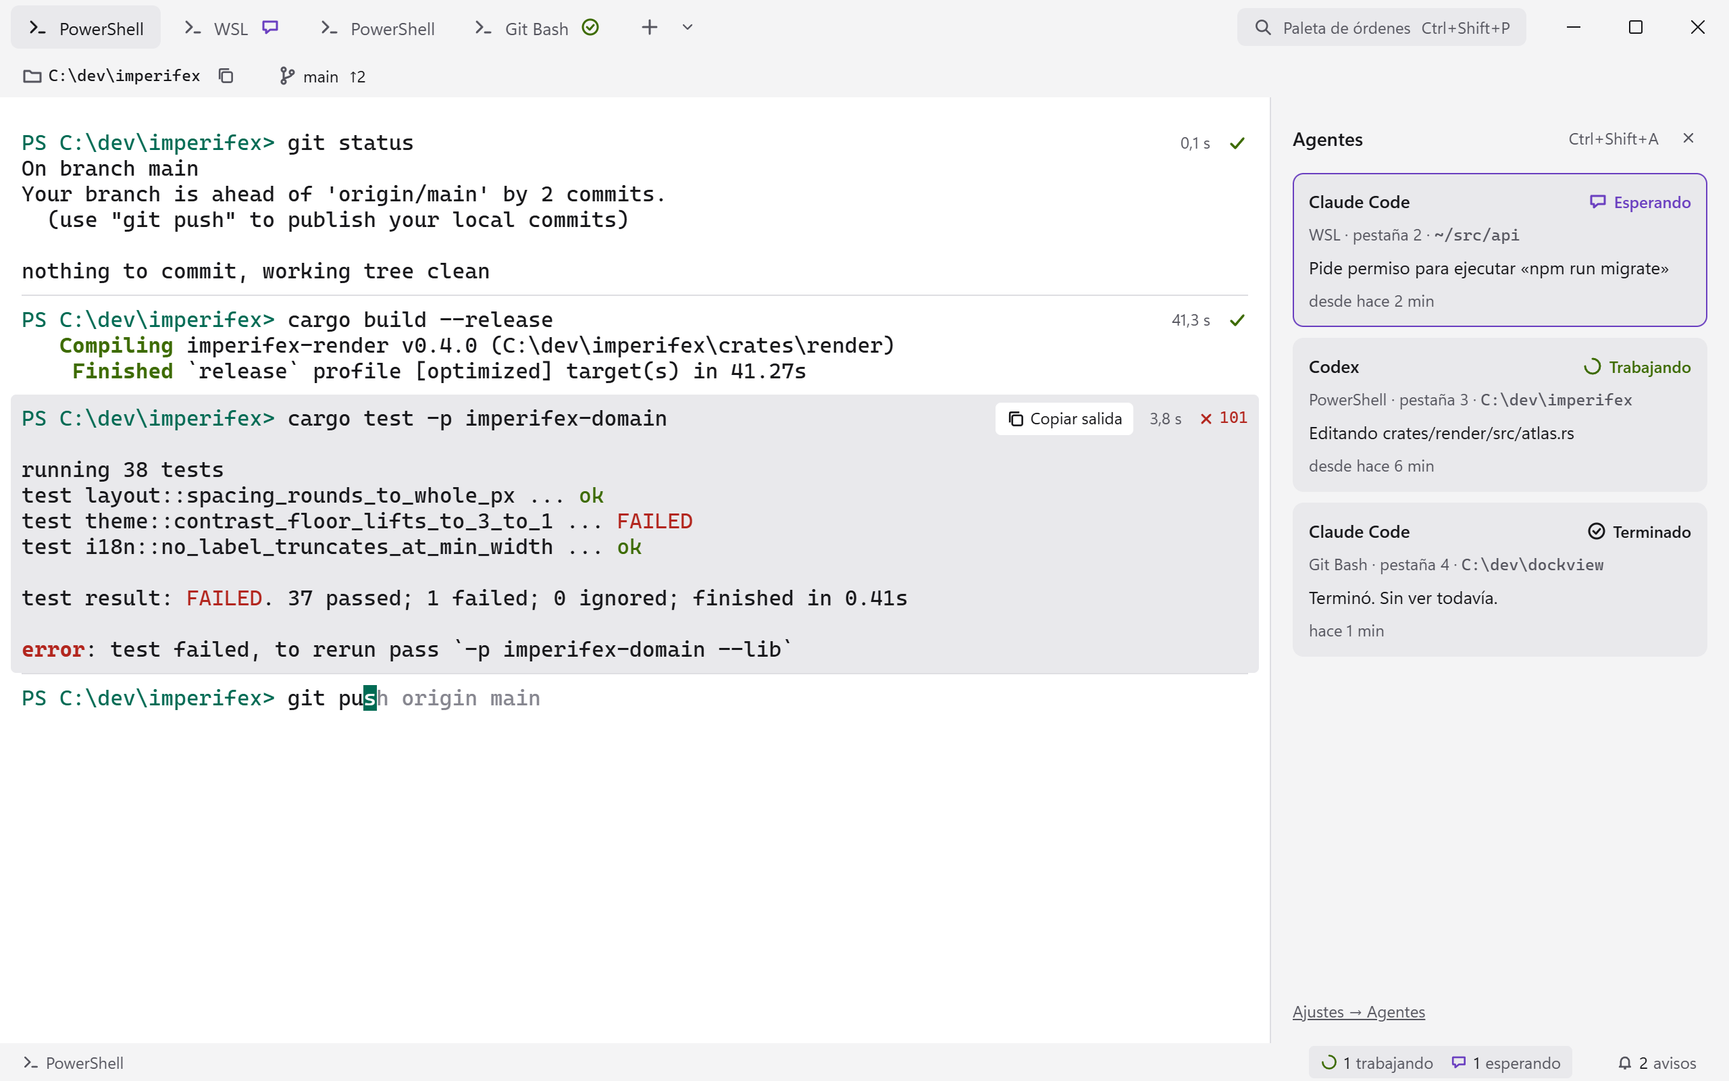
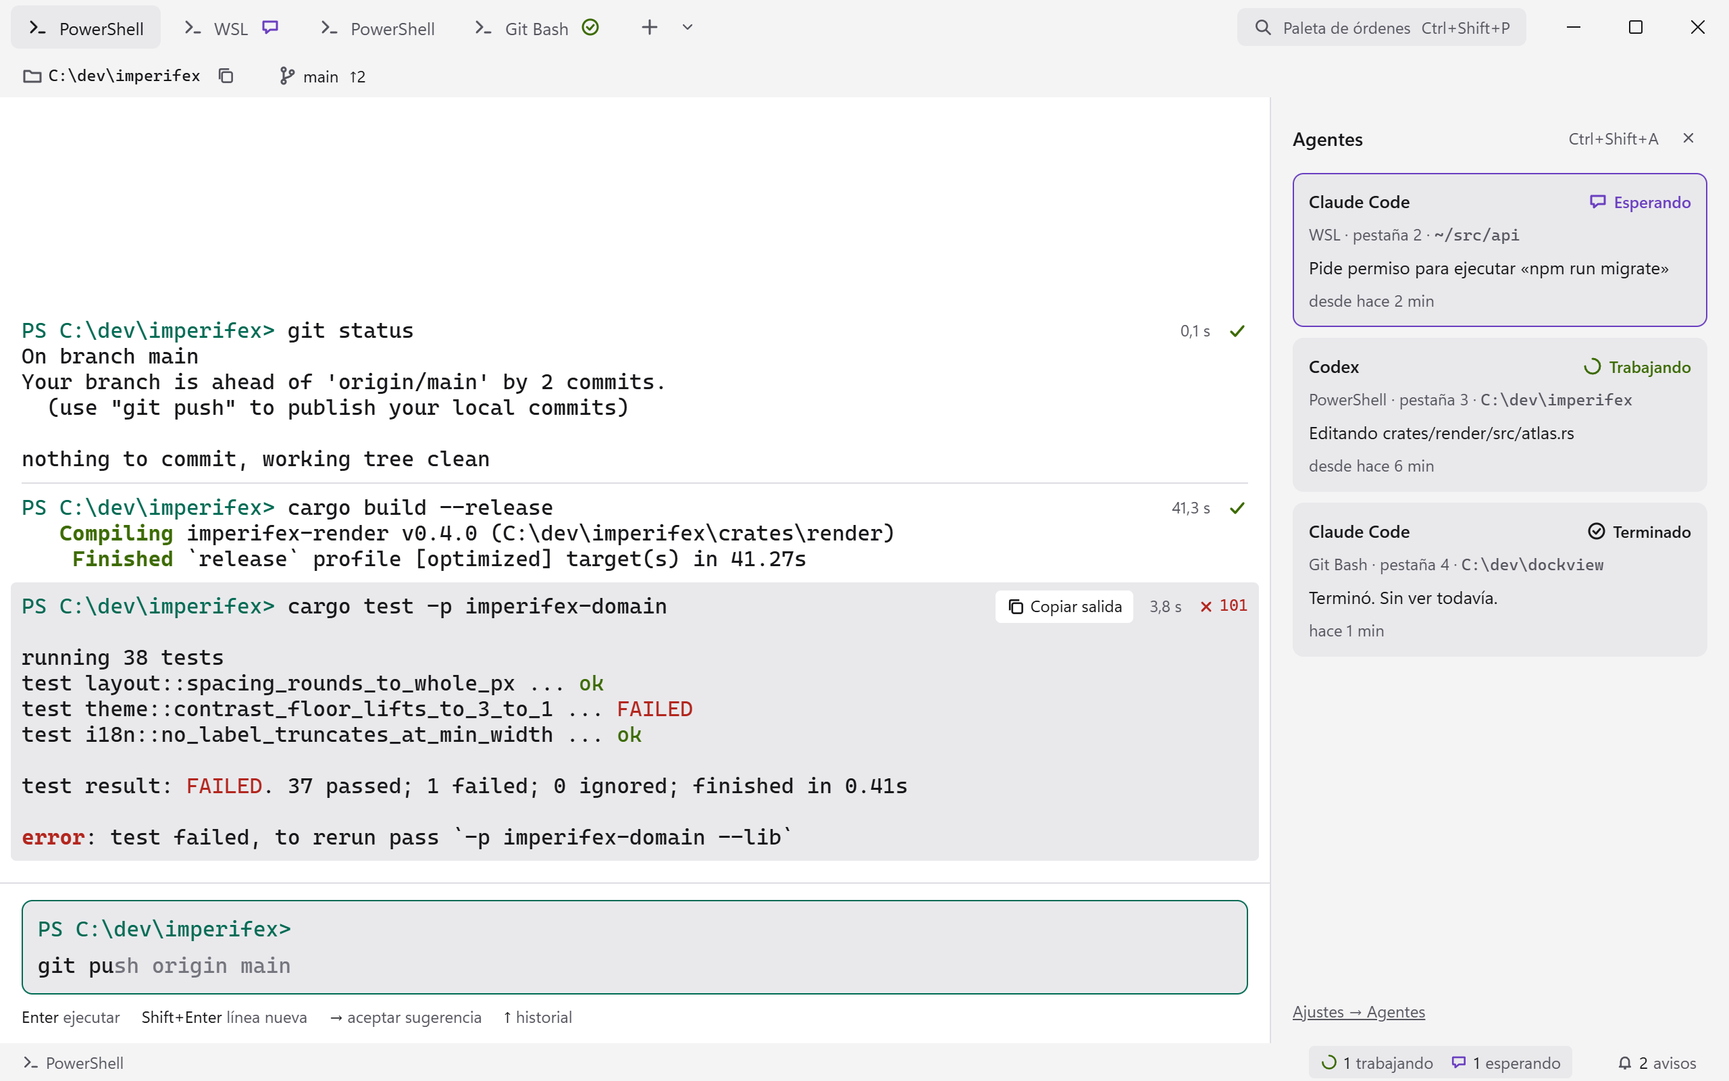
docs(plan): the design's own command editor under the output (T-D22), its measures and the questions it leaves (A11 to A14), as T5.6
Three images in design/ change. The editor's suggestion grey is raised just enough to reach 4.5:1.

diff --git a/docs/TERMINAL_PLAN.md b/docs/TERMINAL_PLAN.md
@@ -14,7 +14,7 @@ Siete imágenes en `design/`, exportadas del lienzo de diseño del autor «Imper
 
 | Imagen | Muestra |
 |---|---|
-| `Oscuro · español · panel de agentes.png` | La ventana completa: pestañas, barra de contexto, bloques, panel abierto y barra de estado |
+| `Oscuro · español · panel de agentes.png` | La ventana completa: pestañas, barra de contexto, bloques pegados abajo, editor de órdenes (T-D22), panel abierto y barra de estado |
 | `Claro · español.png` | Lo mismo en tema claro |
 | `Light · English.png` | Lo mismo en inglés |
 | `Sin integración con la shell terminal normal.png` | Sin OSC 133: la salida seguida, sin bloques ni márgenes entre órdenes |
@@ -45,7 +45,7 @@ La imagen era la referencia de estilo, no una especificación.
 | Parte | Motivo |
 |---|---|
 | Tabla de `cargo test`, «4 passed», rendimiento, «LLVM», «Zero-Copy Pool» | La terminal recibe texto, no datos. Habría que interpretar cada herramienta. La salida se muestra tal como llega |
-| Sugerencia propia y caja «Tab to complete» | PSReadLine y las shells ya sugieren; `Tab` es de la shell. Su sugerencia se dibuja como la envíen |
+| Sugerencia propia y caja «Tab to complete» | PSReadLine y las shells ya sugieren; `Tab` es de la shell. Su sugerencia se dibuja como la envíen. **Cambiado por T-D22:** el diseño nuevo sí tiene editor y sugerencia propios, abajo |
 | «GPU Accel (Vulkan)» | No es algo que el usuario decida |
 | «Create PR» | Es un producto aparte; `gh` ya lo hace |
 | Versiones de Rust y Node | Habría que detectarlas por proyecto y aportan poco |
@@ -83,6 +83,7 @@ La imagen era la referencia de estilo, no una especificación.
 | T-D19 | La barra de título propia **no tendrá el menú de diseños de ajuste** de Windows 11 (el que sale al dejar el ratón sobre maximizar). No se reemplaza el procedimiento de ventana de winit. T-D15 queda confirmada: se usa `winit` | Elegido por el autor (2026-11-27), tras la sonda T2.6. Ajustar arrastrando y con `Win`+flechas sí funciona |
 | T-D20 | **El diseño nuevo de `design/` es la referencia** (ver «La referencia de diseño»). Trae: paleta gris neutra con acento **verde menta** en lugar del cian; **ANSI nuevos**, con el «blanco» (7 y 15) **gris oscuro en el tema claro**; la interfaz en **Segoe UI Variable** (13 px; 12 px los secundarios) y la salida en Cascadia Mono; el panel de agentes de 340 px **quita columnas** a la salida; las pestañas llevan el icono del agente que espera o terminó; el panel ordena Esperando, Trabajando, Terminado, Inactivo, Desconocido | Elegido por el autor (2026-11-27): «Este va a ser el nuevo diseño» |
 | T-D21 | Para que la paleta nueva pase la prueba de 4,5:1 en el tema claro, dos ANSI se oscurecen lo mínimo: 9 `#C9372C` → **`#C2352A`** y 10 `#467A00` → **`#437600`** (4,52 y 4,53:1 sobre `raised`; antes 4,26 y 4,29). A simple vista no cambian | Propuesta del planificador (2026-11-27), aplicando la regla de contraste del plan; el autor puede volver a los del lienzo |
+| T-D22 | **Editor de órdenes propio** (actualización del diseño, 2026-11-27). Con integración de la shell (OSC 133), y mientras la shell espera una orden, se escribe en una caja de Imperifex bajo la salida, no en la línea de la shell. La caja tiene el prompt arriba, varias líneas, una sugerencia en gris y estos atajos: `Enter` ejecuta, `Mayús`+`Enter` añade una línea, `→` acepta la sugerencia, `↑` trae el historial. La salida queda **pegada abajo**, junto a la caja. **Sin integración**, o con un programa corriendo (Claude Code, `ssh`, un REPL), no hay caja y las teclas van a la shell como siempre (imagen «Sin integración»). Deja sin efecto la fila «Sugerencia propia» de «Se va» | Elegido por el autor al actualizar el diseño (2026-11-27). Las preguntas que el dibujo no responde son A11 a A14 |
 
 ## Decisiones abiertas (cada una se cierra antes de su bloque)
 
@@ -93,6 +94,10 @@ La imagen era la referencia de estilo, no una especificación.
 | A8 | El diseño nombra las pestañas por perfil, y dos «PowerShell» no se distinguen. ¿Qué nombre lleva una pestaña? | El título que pone el programa (OSC 0); si no pone ninguno, el perfil | T3.4 |
 | A9 | La duración, el resultado y «Copiar salida» van en la fila de la orden, a la derecha, encima de la cuadrícula. Si la orden llega hasta ahí, ¿qué pasa? | Se dibujan solo si esas celdas están vacías; si no, al pasar el ratón por el bloque. Nunca tapan texto ni se reservan columnas (la shell no lo sabría) | T5.2 |
 | A10 | El diseño deja unos 8 px y una línea entre bloques. Las filas de la cuadrícula van pegadas y la shell cuenta con un número fijo de filas. ¿Espacio de verdad entre bloques? | No: la línea se dibuja en el borde entre dos filas y el fondo del bloque elegido ocupa sus filas enteras. Espacio de verdad haría variar las filas que caben según cuántos bloques se vean | T5.2 |
+| A11 | Con el editor propio, ¿qué hace `Tab`? La línea ya no está en la shell, así que su completado (PSReadLine, bash) no ve lo escrito | Primera versión sin completado: `Tab` inserta 4 espacios. Más adelante, una tarea propia que le pregunte a la shell (en PowerShell, `TabExpansion2`) | T5.6 |
+| A12 | ¿De dónde salen la sugerencia y el historial de `↑`? | Un historial propio por perfil, en `%APPDATA%\Imperifex\history\<perfil>.txt`, con límite (10 000 órdenes). La sugerencia es la orden más reciente que empieza por lo escrito. No se leen los historiales de PSReadLine ni de bash. Nunca se guarda lo que empiece por espacio, como hacen las shells | T5.6 |
+| A13 | ¿Cómo se apaga el editor para escribir en la shell como siempre? | Una opción en Ajustes (encendido por defecto, como en el diseño) y un atajo que lo apaga en la pestaña. Sin integración no hay editor | T5.6 |
+| A14 | ¿Cómo llega a la shell una orden de varias líneas? | Entre las marcas de pegado delimitado (`?2004`) si la shell lo pidió, seguida de `Enter`; si no lo pidió, el editor no deja enviarla y lo dice. Hay que probar qué hacen PowerShell, `cmd` y bash de WSL | T5.6 |
 
 ## Fuera de este plan
 
@@ -110,7 +115,7 @@ Los datos están en «Hechos medidos» de `docs/PLAN.md`. Esto es lo que toca a 
 | Observado | Qué implica |
 |---|---|
 | La entrada de Warp la dibuja su propio editor, no el prompt de la shell | Con la shell nativa, cada tecla de Imperifex va y vuelve por ConPTY y PSReadLine. Su latencia al escribir en el prompt puede no ser comparable con la de Warp. **Decidir antes de T4 cuál es la vara**: la tecla en el prompt (lo que siente el usuario), la tecla dentro de un programa (compara el dibujo), o las dos (recomiendo las dos) |
-| Warp muestra una sugerencia atenuada al escribir | En Imperifex la sugerencia la pone la shell (T-D1 no cambia; la caja propia sigue fuera). T3 comprueba que la de PSReadLine se ve bien en ambos temas |
+| Warp muestra una sugerencia atenuada al escribir | En Imperifex la sugerencia la pone la shell (T-D1 no cambia; la caja propia sigue fuera). T3 comprueba que la de PSReadLine se ve bien en ambos temas. **Cambiado por T-D22:** con integración, Imperifex tiene su propio editor, como Warp. Así la latencia de escribir en el prompt sí se compara con la de Warp (T4) |
 | Al abrir una ventana, Warp lanzó muchos procesos cortos de `powershell`, `git` y `gh` (se supone que para sus avisos de carpeta y rama; no comprobado) | T5.3: la barra de contexto no lanza procesos al abrir ni en cada prompt sin medir su coste |
 | Al cerrar una ventana, su shell siguió viva cerca de un minuto | T3.4: al cerrar una pestaña, Imperifex decide y dice qué pasa con sus procesos; el panel de agentes no muestra los de pestañas cerradas |
 | La pantalla principal presenta a 144 Hz y la duplicación entrega los frames en menos de 0,2 ms (p95) | Sirve para medir T-D6 y la latencia de Imperifex con la misma herramienta |
@@ -152,6 +157,7 @@ Valores del diseño nuevo (T-D20), copiados del código del lienzo el 2026-11-27
 | `waiting` | `#C4A7FF` | `#6A3FC0` | El agente espera al autor |
 | `line` (nuevo) | `#383838` | `#DEDEE2` | Separador entre bloques y borde del panel. Es decoración: no lleva texto |
 | `close_hover` (nuevo) | `#C42B1C` | `#C42B1C` | Fondo de cerrar al pasar el ratón, con la equis en `#FFFFFF` (5,66:1), como en Windows |
+| `suggestion` (nuevo, T-D22) | `#949494` | `#686870` | Sugerencia en gris del editor, sobre `raised`. El lienzo trae `#858585` y `#74747D` (3,73 y 3,82:1); se ajustan lo mínimo para llegar a 4,5:1 (4,54 y 4,56), como en T-D21 |
 
 Medido el 2026-11-27 con la fórmula de WCAG sobre los tres fondos de cada tema (`background`, `surface`, `raised`): los siete colores de texto dan **al menos 5,25:1** (el peor, `ok` claro). La prueba sigue exigiendo 4,5:1. El cursor (letra `surface` sobre `accent`) da 11,5:1 en oscuro y 6,5:1 en claro.
 
@@ -202,7 +208,8 @@ En píxeles lógicos a 100 %. Lo que es espacio usa `Space` (entre paréntesis);
 | Barra de título | 40 de alto, fondo `background`, sangría izquierda (`S`). Pestaña: 32 de alto, radio 6, relleno lateral (`M`), icono de 16 a (`S`) del nombre, (`Xs`) entre pestañas. La activa va en `raised` con `text`; las demás, sin fondo y en `muted`. Icono de agente a la derecha del nombre: `waiting` si espera, `ok` si terminó. `+` de 32×32 y `⌄` de 24×32, juntos. Botón de la paleta: 28 de alto, `raised`, texto `muted` de 12 px con el atajo, relleno (`M`), a (`M`) de los botones de ventana. Botones de ventana: 46×40, iconos de 10 |
 | Barra de contexto | 32 de alto, relleno lateral (`L`), (`Xl`) entre grupos, 12 px `muted`. Carpeta en Cascadia y en `text`, botón de copiar de 28×28 con radio 6. Rama y `↑N` en `text`; sin repositorio no se muestran |
 | Salida | Fondo `surface`, (`L`) alrededor; en la pantalla alternativa, 0 |
-| Bloques | Separador de 1 px en `line`. Bloque elegido: fondo `raised`, radio 4, sobresale (`S`) a cada lado. En la fila de la orden, a la derecha y separados por (`M`): «Copiar salida» (solo en el elegido; 24 de alto, radio 4, fondo `surface`), la duración (12 px `muted`, coma decimal en español) y ✓ en `ok`, o ✗ y el código en `error` y en Cascadia. Ver A9 y A10 |
+| Bloques | Separador de 1 px en `line`. Bloque elegido: fondo `raised`, radio 4, sobresale (`S`) a cada lado. En la fila de la orden, a la derecha y separados por (`M`): «Copiar salida» (solo en el elegido; 24 de alto, radio 4, fondo `surface`), la duración (12 px `muted`, coma decimal en español) y ✓ en `ok`, o ✗ y el código en `error` y en Cascadia. Ver A9 y A10. Con el editor (T-D22), la salida va **pegada abajo**: si sobran filas, el hueco queda arriba |
+| Editor de órdenes (T-D22) | Bajo la salida y separado por 1 px en `line`, relleno (`M`) arriba y abajo y (`L`) a los lados, (`S`) entre la caja y los atajos. Caja: fondo `raised`, radio 8, relleno (`M`), (`S`) entre el prompt y el texto, borde de 1 px en `accent` cuando tiene el foco. El prompt en `accent` y en Cascadia 16/19 px, como la salida (lo sabe la integración: A de OSC 133 hasta B). El texto en `text`, el cursor en `accent`, la sugerencia en `suggestion`, y crece una fila por línea. Debajo, los atajos en 12 px `muted`, con la tecla en `text` y (`L`) entre uno y otro: «`Enter` ejecutar · `Mayús+Enter` línea nueva · `→` aceptar sugerencia · `↑` historial» |
 | Panel de agentes | 340 de ancho, fondo `background`, borde izquierdo de 1 px en `line`, relleno (`L`), (`M`) entre partes. Cabecera: «Agentes», el atajo `Ctrl+Shift+A` y cerrar (28×28). Tarjetas a (`S`) entre sí: relleno (`M`), radio 8, fondo `raised`, y un borde de 1 px en `waiting` si espera. Dentro, a (`S`): nombre (600) con el estado a la derecha (icono de 16 y palabra, 12 px, 600, en su color: `waiting`, `ok`, `text`, `muted`, `muted`); «pestaña · carpeta» (12 px `muted`, carpeta en Cascadia); el aviso en `text` («sin datos» en `muted`); desde cuándo (12 px `muted`). Abajo, el enlace «Ajustes → Agentes» |
 | Barra de estado | 28 de alto, relleno lateral (`L`), (`Xl`) entre grupos, 12 px `muted`. Izquierda: icono y perfil de la pestaña. Derecha: el botón de los contadores (trabajando en `ok`, esperando en `waiting`, el número en `text`; 24 de alto, radio 4, fondo `raised` con el panel abierto), que abre el panel, y los avisos con su campana |
 
@@ -560,6 +567,7 @@ Va después del commit de T2.9 y antes de mirar programas reales: así T2.11 los
 | T5.3 | Barra de contexto: carpeta, copiar, rama y commits por subir, sin frenar el prompt | Un repo grande no retrasa la escritura; fuera de un repo no muestra rama |
 | T5.4 | Paleta `Ctrl+Shift+P` | Órdenes, pestañas y ajustes en el idioma elegido |
 | T5.5 | Repaso visual contra las imágenes de `design/` (T-D20): los dos temas, los dos idiomas, sin integración y pantalla completa | Capturas aprobadas por el autor |
+| T5.6 | Editor de órdenes propio (T-D22), tras cerrar A11 a A14. Solo aparece con integración y con la shell esperando una orden. Las filas del prompt que dibuja la shell (de A a B en OSC 133) no se pintan mientras está la caja, para que el prompt no salga dos veces. Al ejecutar, la orden se envía a la shell y queda en el bloque como siempre. Si la integración se pierde o un programa toma la terminal, la caja desaparece y las teclas van a la shell | Pruebas del editor (texto, varias líneas, sugerencia, historial), y con PowerShell y bash de WSL reales: la orden llega entera, una sola vez y bien entrecomillada. Sin integración, la terminal funciona como antes. La latencia de una tecla en la caja se mide en T4 |
 
 ### T6 · Agentes (requiere A0)
 | # | Tarea | Hecho cuando |
@@ -609,6 +617,11 @@ Camino más corto a algo que se vea: T1 → T2. A algo que se use: hasta T3. Si 
 | El diseño y los agentes retrasan una terminal usable | Hito de uso diario antes de T5 y T6 |
 
 ## Hechos medidos
+
+### Desplazamiento · El ratón a través de ConPTY (2026-11-27, sonda desechable, Windows 10.0.26200, una ejecución por caso)
+
+- Un programa de Node que escribe `?1049h ?1000h ?1002h ?1006h`: las cuatro **llegan** a la terminal. Los informes SGR de rueda escritos en la consola le llegan **tal cual**.
+- Las mismas órdenes escritas con `type` desde `cmd` (más `?1007h`): solo llegó `?1049h`.
 
 ### T2.9 · La shell en la ventana (2026-11-27, `imperifex window` en release, 960×600 a 100 %, Windows PowerShell; PowerShell 7 no está instalado)
 
@@ -722,7 +735,10 @@ La abrió un script, esperó 5 s, midió 60 s y la cerró pidiéndoselo (`CloseM
 
 ## Estado
 
+- 2026-11-27: **actualización del diseño:** editor de órdenes propio bajo la salida (T-D22), con la salida pegada abajo. Tres imágenes de `design/` cambian (oscuro, claro, inglés). El token nuevo `suggestion` se ajusta a 4,5:1. Las preguntas del editor quedan abiertas (A11 a A14), con su tarea T5.6. **T2 no cambia:** el editor necesita la integración de T5.1.
 - 2026-11-27: **diseño nuevo** (T-D20): siete imágenes en `design/`, del lienzo del autor; `design/screen.png` se borra. Paleta, ANSI y medidas en «Diseño: tema» y «Diseño: medidas»; T-D21 oscurece dos ANSI del tema claro; nuevas decisiones abiertas A8 a A10. T2 gana una tarea: **T2.10** aplica el diseño a lo ya hecho, y la revisión con programas reales pasa a **T2.11**. Lo que T2.8 y T2.9 llevan programado no cambia de pasos: se terminan, se suben y después va T2.10.
+- [ ] **Desplazamiento, adelantado de T3** (2026-11-27), porque el autor ya usa Imperifex y no podía desplazarse en Claude Code. Programado, con `tools/check.ps1` y el `clippy` de Linux de las capas portables en verde; **falta que el autor lo pruebe con Claude Code** (Claude no lo abrió) y el commit, después del de T2.10 (el trabajo previo sin esto está en `.git/t2.8..t2.10.patch`). La rueda, según el programa: si pidió el ratón (`?1000`, `?1002` o `?1003`), un informe por muesca en la celda bajo el puntero, en SGR si pidió `?1006`; si no, en la pantalla alternativa, tres flechas por muesca; si no, tres filas del historial. `Mayús`+`RePág`/`AvPág` mueven una pantalla. Mirando atrás, la vista se queda en su texto aunque llegue salida, y escribir o cambiar de tamaño la devuelve abajo. Sin barra de desplazamiento (el diseño no la tiene). **No incluye** clics ni arrastres para los programas, ni selección y copia: siguen en T3.3. Probado en la ventana real: 200 líneas de PowerShell, hasta arriba y de vuelta; y un programa de Node en pantalla alternativa recibió `ESC[<64;…M` y `ESC[<65;…M`. `Mayús`+`RePág` solo en pruebas. El `settings.json` de Claude Code del autor tiene `tui = fullscreen`.
+- [ ] T2.10 (2026-11-27): pasos 1 a 5 programados, con `tools/check.ps1` y el `clippy` de Linux de las capas portables en verde; **falta el paso 6 con el autor** y el commit (después de los de T2.8 y T2.9; el código previo sin el diseño está en `.git/t2.8+t2.9.patch`). Capturas de Claude a 1280×800 y 100 %, comparadas a ojo: la pestaña y las barras caen donde en el lienzo. **El icono de la pestaña y de la barra de estado lo dibuja el programa**, por decisión del autor (2026-11-27): Segoe Fluent Icons no trae el `>_` suelto del lienzo (`U+E756` lleva marco y `C:`). Es la única excepción a «Iconos: Segoe Fluent Icons»: `domain::prompt_icon` lo calcula al tamaño pedido, con las medidas tomadas de la imagen (caja de 16: trazos de 1,5 con puntas redondas; `>` por (3, 4), (7, 8) y (3, 12); `_` de (8,75, 12) a (13,25, 12)); en la ventana a 100 % ocupa las mismas columnas que en el lienzo. **Difiere:** (b) las letras de la interfaz quedan algo desiguales («Power Shell»), la limitación anotada en T2.8; (c) sin PowerShell 7, la pestaña dice «Windows PowerShell». No visto en la ventana: cerrar en rojo al pasar el ratón (solo en pruebas). Cambia en las pruebas de contraste lo que dice el paso 2 (umbrales 4,5 y 4,0; el 7 y el 15 entran), y la de la sugerencia de PSReadLine: con el blanco gris del tema claro ya se lee sin T-D17, que ahora se prueba con un blanco de 24 bits. Añadido que los pasos no decían: `DrawList.rounded` y esquinas suavizadas en el sombreador (probadas leyendo píxeles), porque la pestaña pide radio 6; `TextMeasure` recibe el tamaño de letra en píxeles, para que los tamaños vivan en `ui/src/metrics.rs`; el nombre de la pestaña lo decide `shell::tab_name` («Símbolo del sistema» se traduce); la pestaña no hace nada al pulsarla (mueve la ventana, como la franja) y no se dibuja si no cabe. `Segoe UI Variable Text` está instalada y da los mismos avances que `Segoe UI` con otros dibujos.
 - [ ] T2.9 (2026-11-27): **programada y conectada a la ventana**, con `tools/check.ps1` y el `clippy` de Linux de las capas portables en verde; **falta la revisión del autor** y el commit (después del de T2.8). Probada en la ventana real por Claude, con permiso del autor: teclas enviadas solo a esa ventana y capturas solo de ella (ver «Hechos medidos»); ajustes de prueba en un `%APPDATA%` temporal. Decidido al programar, **para que el autor lo confirme**: (a) el fondo `surface` ocupa toda la zona bajo la barra y la cuadrícula va dentro, a `Space::L` (antes `surface` era solo `terminal_area`: la letra habría tocado su borde); (b) **al terminar la shell se cierra la ventana**; (c) mientras hay un dibujo pendiente no se lee más salida, para que un programa que no para de escribir no deje la ventana sin turno para dibujar. Añadido que los pasos no decían: ConPTY no cierra su salida cuando el programa sale, así que el adaptador vigila el proceso y avisa; `DrawList` tiene una capa que flota, para que la cuadrícula no tape la ayuda de la barra; una marca suelta se coloca según dónde está su dibujo, no según su avance. Dos fallos que solo se vieron en la ventana, corregidos: minimizar cortaba las líneas a 14 columnas, y los acentos sueltos salían a la derecha de su letra.
 - [ ] T2.8 (2026-11-27): programada, con `tools/check.ps1` en verde; **falta la prueba a mano** (barra a 100 % y a otra escala) y el commit. Comprobado sin ventana: se dibujó `ui::frame` en una textura y se miró la imagen (temas oscuro y claro, escalas 100, 125 y 150 %, español e inglés, maximizada y la ayuda sin salirse); y una prueba nueva del renderizador lee los píxeles de un rectángulo y una letra (necesita tarjeta gráfica; se salta en la CI). En este PC, `Cascadia Mono` está instalada y sus cuatro caras salen **sin simulación** y distintas entre sí. Su celda a 12 pt: 9×19 px a 100 %, 12×23 a 125 % y 14×28 a 150 %. La ayuda de los botones se programó (no pasa a T3). Decidido al programar: **dependencia nueva `windows-core`** (la que nombra `#[implement]`, para la fuente de reserva; **pendiente de que el autor la apruebe**); el texto se coloca letra a letra, sin kerning, y cada glifo empieza en un píxel entero, así que el espacio entre letras puede variar hasta medio píxel (en las capturas se nota un poco en «Minimizar» a 100 %); `GlyphKey` es cara, glifo y tamaño, porque negrita y cursiva ya son caras distintas; si el atlas se llena, se vacía y se rehace **el mismo** cuadro; el aviso de fuente no encontrada sale solo en el registro (la ventana aún no tiene dónde mostrar avisos); la celda se mide con `DirectWriteText::cell`, que nada usa hasta T2.9.
 - [x] T2.7 (2026-11-27): programada, con `tools/check.ps1` en verde. A mano: el autor probó la ventana en su PC y dijo «Todo funciona como es esperado», en respuesta a la lista de diez puntos (barra, mover y redimensionar, ajuste de Windows, maximizar y minimizar, menú, otro monitor y escala, sombra y esquinas, cambio de tema sin reiniciar); no dio detalle por punto. CPU en reposo medida (ver «Hechos medidos»). **Sigue T2.8 🖥.** Cambios respecto a los pasos: `Renderer::draw` aún no recibe `TerminalPicture` (llega con T2.9); `ui::frame` ya no recibe `TextMeasure` hasta T2.8, para no poner un doble en el binario; no se usa `Win32_Graphics_Dwm`: lo de Luminifex sirve para volver de pantalla completa, que aquí no hay (en la sonda las esquinas ya salían redondeadas; falta verlo en la ventana real); los botones actúan al soltar, si se pulsó en el mismo (`Pointer::held_from`); el doble clic lo decide `domain::mouse`; cerrar se dibuja como un cuadro lleno, porque con rectángulos no sale una equis.
